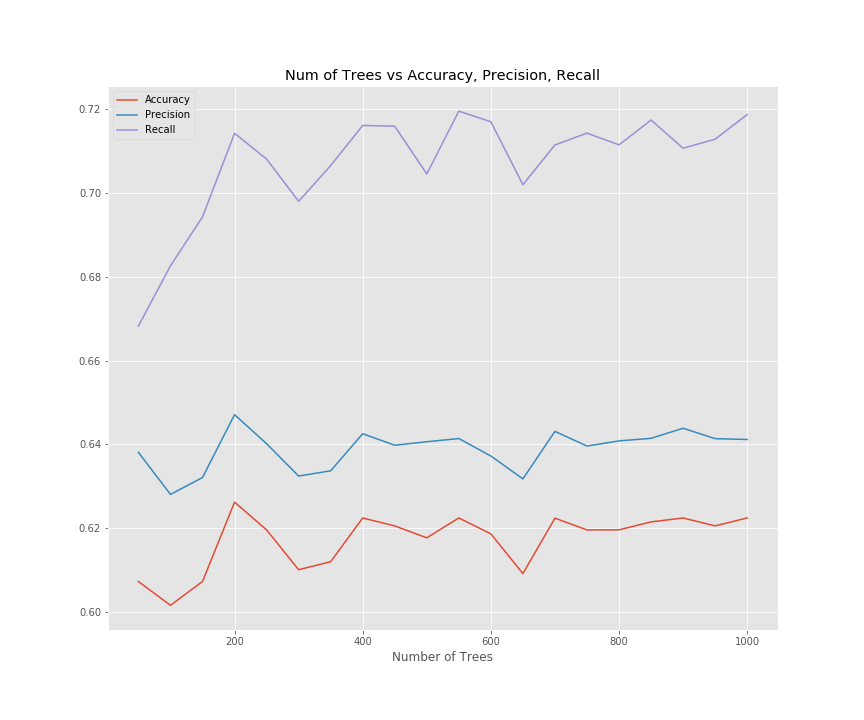
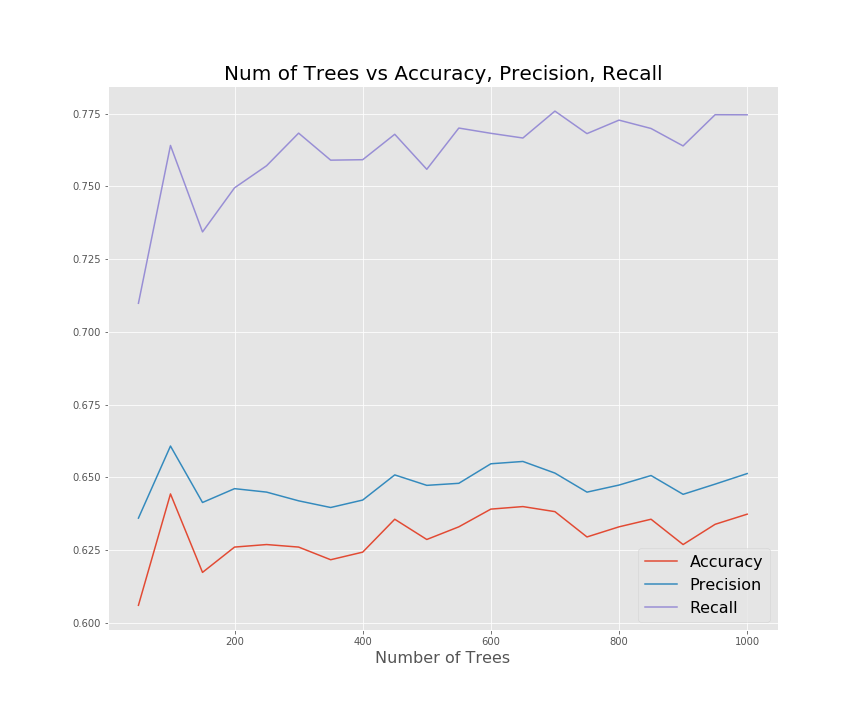
edit readme

diff --git a/README.md b/README.md
@@ -10,7 +10,8 @@
   - [Initial Intake](#initial-intake)
   - [Feature Selection](#feature-selection)
 - [Model Selection](#model-selection)
-  - [Visualizations](#visualizations)
+  - [Logistic Regression](#logistic-regression)
+  - [Random Forest](#random-forest)
 - [Future Considerations](#future-considerations)
 - [License](#license)
 
@@ -18,7 +19,7 @@
 
 ### Context
 
-In the words of Danny Ocean from Ocean's 11
+In the words of Danny Ocean from Ocean's 11:
 
 >"The house always wins. Play long enough, you never change the stakes, the house takes you. Unless, when that perfect hand comes along, you bet big, and then you take the house."
 
@@ -62,6 +63,18 @@ A heat map was used to find highly correlated stats. For example, as shown below
 A goal of this study was to find if I could accurately predict important features using my domain knowledge of the NFL.
 
 For each game, I predicted that the following would be the most important features:
+| Home_Team_Features | Away_Team_Features|
+| -------------      | -------------     |
+| Team Score         | Team Score        |
+| QB Rating          | QB Rating         |
+| Opponent Score     | Opponent Score    |
+| Sacks              | Sacks             |
+| Interceptions      | Interceptions     |
+| Passing TDs        | Passing TDs       |
+| Fumbles            | Fumbles           |
+| Wins Past Games    | Wins Past Games   |
+| Passing Ints       | Passing Ints      |
+
 | Features      | Features       |
 | ------------- | -------------  |
 | Team Score    | Opponent Score |
@@ -71,3 +84,23 @@ For each game, I predicted that the following would be the most important featur
 | Passing Ints  |                |
 
 
+## Model Selection
+
+### Logistic Regression
+
+This is a classification problem, with my target being if the home team won (1) or lost (0). First, I looked at a logistic regression model but scrapped that quickly when p-values for the various features were all above 0.05 (most well above that threshold).
+
+### Random Forest
+
+I then looked at a random forest model and using the training data using only the stats that I proposed were important, varied the number of trees and used a 5 K-Fold split to get an average of the accuracy. The accuracy, precision, and recall is shown on the plot below vs the number of trees. For this project, we really only care about accuracy. The accuracy for this set is right around 62% even as the number of trees increase.
+
+![Random-Forest-K-Fold-My-Stats](images/rand_fore_vary_num_trees_my_stats.png)
+
+
+Then using all of the stats available, the number of trees were varied and used a 5 K-Fold split again to get an average of the accuracy.
+
+![Random-Forest-K-Fold-All-Stats](images/rand_fore_vary_num_trees.png)
+
+As shown, the accuracy doesn't improve by much even by adding in all of the extra features. Also, as shown, good number of trees to choose is 500 for this model.
+
+The full model was built using all of the data from 2014-2018 seasons to develop the important features that the Random Forest found as well as developing an ROC curve to compare against other models.
